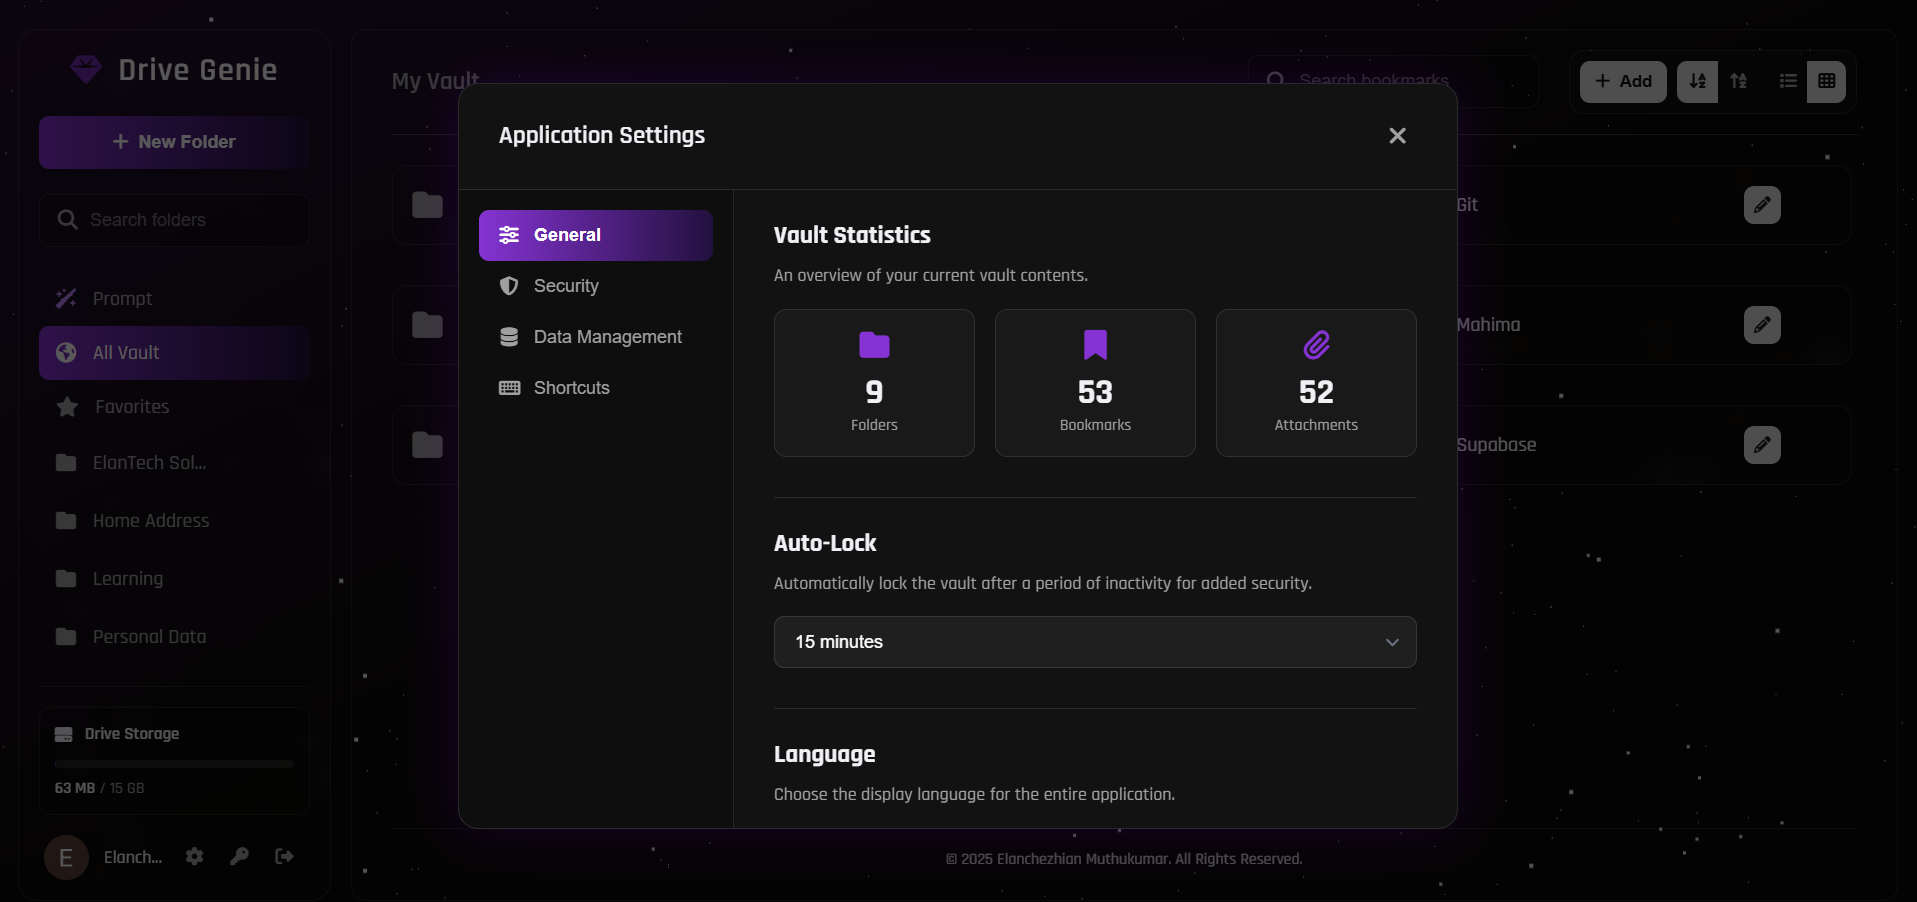
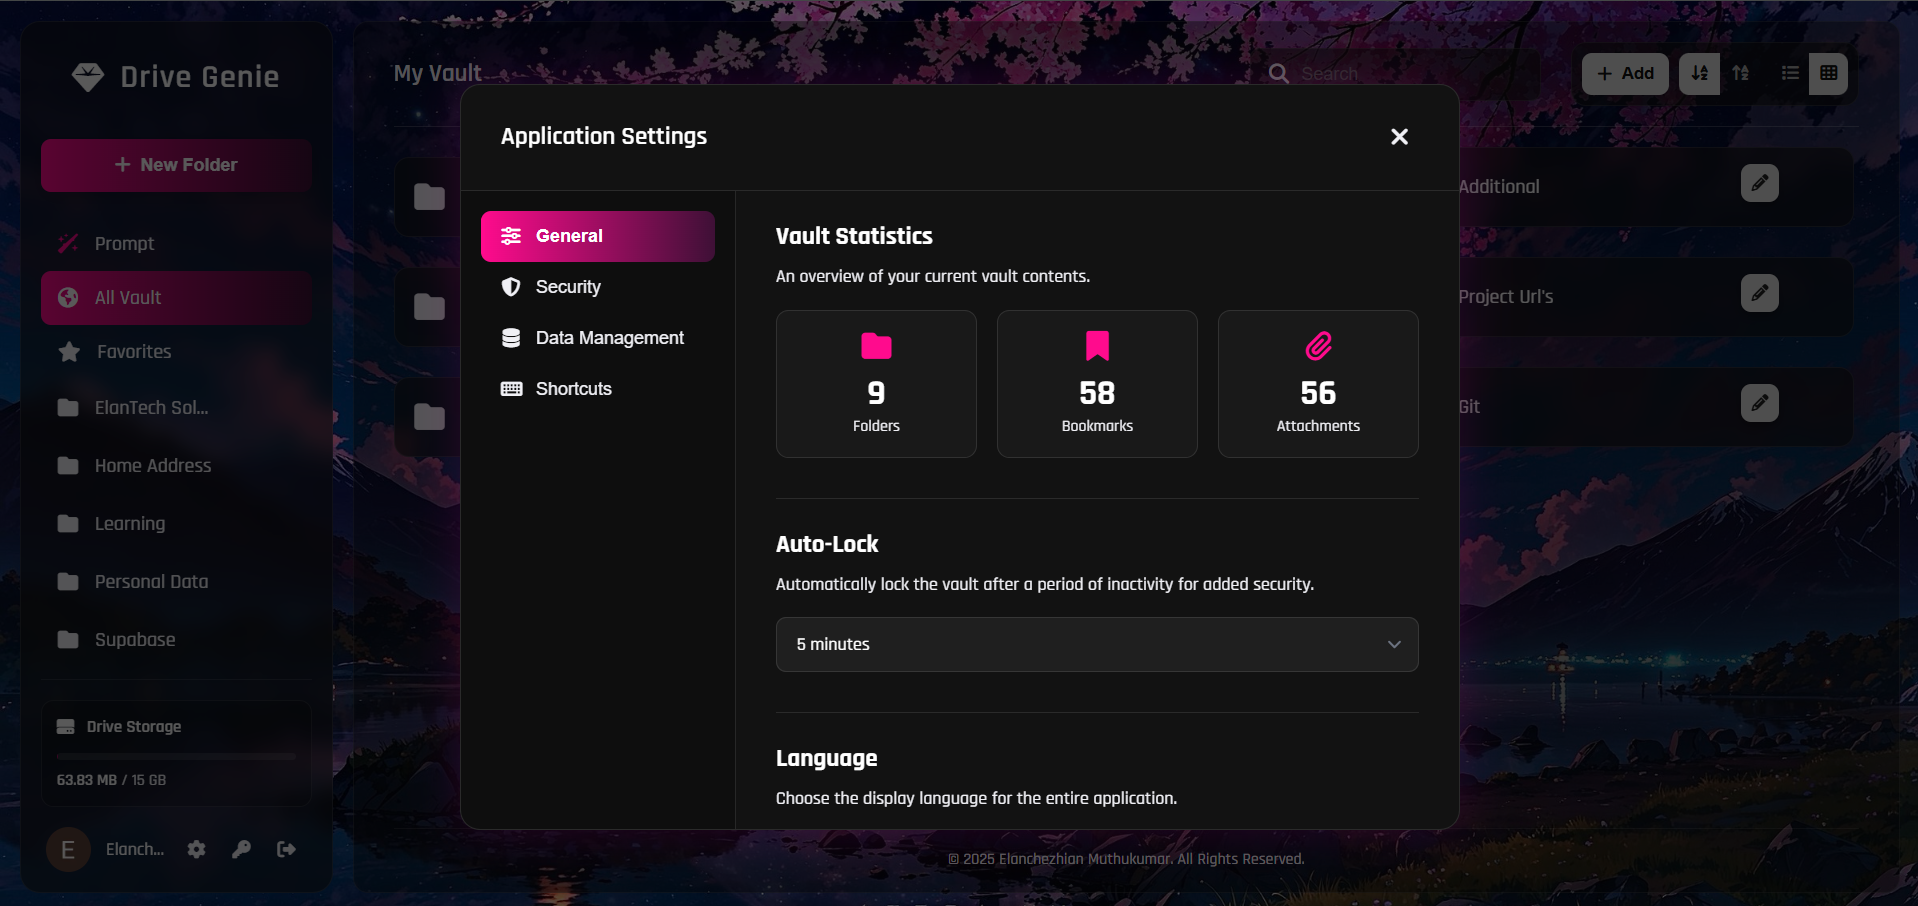
new

diff --git a/src/app/components/FAQ.tsx b/src/app/components/FAQ.tsx
@@ -12,7 +12,7 @@ const experiences = [
     role: "Software Developer",
     company: "Mahima Technology Private Limited",
     location: "Salem, Tamil Nadu, India",
-    period: "Jul '24 — Present",
+    period: "Jul '24 — Aug '25",
     icon: Briefcase,
     featured: true,
     details: [
